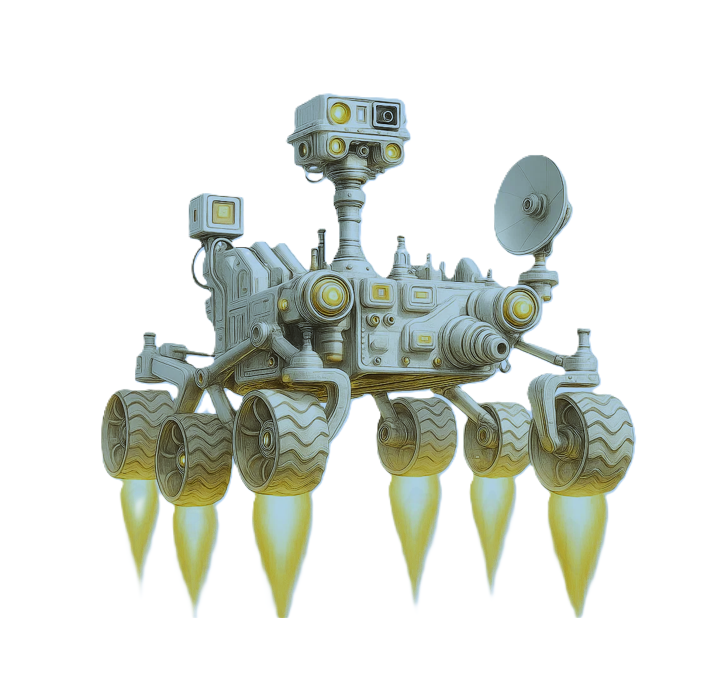
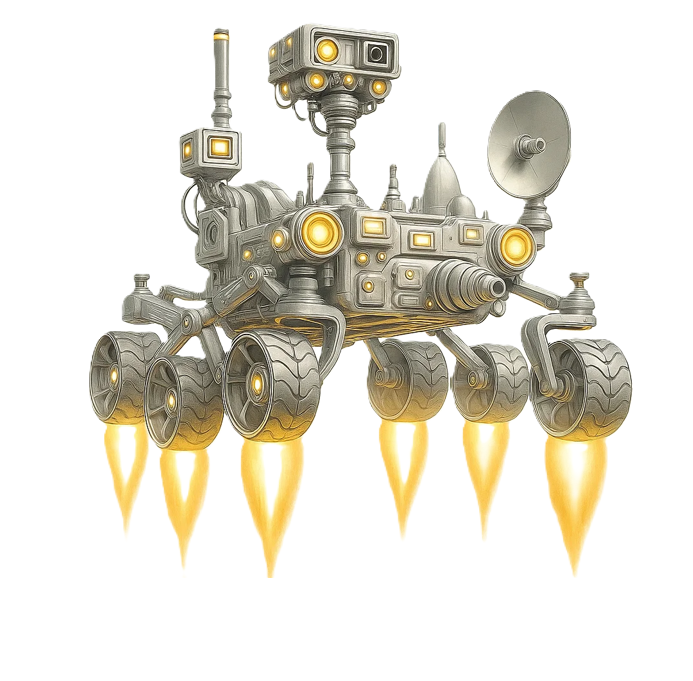
level 3 environment added

diff --git a/Explore_Mars_CV_Game/levels/level_data.py b/Explore_Mars_CV_Game/levels/level_data.py
@@ -65,7 +65,7 @@ level_configs = [
     {   
         # level 2 setup
         "background": os.path.join(assets_dir, "background2.png"),
-        "rover": os.path.join(assets_dir, "rover2.png"),
+        "rover": os.path.join(assets_dir, "rover1.png"),
         "logo": os.path.join(assets_dir, "Logo.png"),
 
         "stone_coords": [
@@ -75,7 +75,62 @@ level_configs = [
         ],
 
         "pithole_coords": [
-            (int(137 * screen_width / 800), int(410 * screen_height / 600), int(236 * screen_width / 800), int(441 * screen_height / 600)),
+            # (int(137 * screen_width / 800), int(410 * screen_height / 600), int(236 * screen_width / 800), int(441 * screen_height / 600)),
+            (int(318 * screen_width / 800), int(458 * screen_height / 600), int(376 * screen_width / 800), int(485 * screen_height / 600)),
+            # (int(500 * screen_width / 800), int(321 * screen_height / 600), int(618 * screen_width / 800), int(361 * screen_height / 600))
+        ],
+
+        "stone_facts": [
+            "Mars rocks are rich in iron, giving the planet its red color.",
+            "Some rocks on Mars were formed billions of years ago.",
+            "Mars may have had water long ago, according to some rocks.",
+            "Mars' volcanoes are giant, like Olympus Mons, the biggest volcano in the solar system.",
+            "Curiosity rover found signs of life in some Martian rocks.",
+            "Mars has rocks that look like Earth’s, formed by wind and water.",
+            "Mars has huge dust storms that can cover the entire planet.",
+            "Some rocks on Mars show signs of past underground water.",
+            "NASA’s Perseverance rover is collecting Martian rock samples.",
+            "Valles Marineris, a giant canyon on Mars, is the largest in the solar system."
+        ],
+
+        "pithole_facts": [
+            "Pitholes are holes in Mars' surface, made by old volcanic activity.",
+            "Some pitholes formed from gas bubbles deep underground.",
+            "Pitholes on Mars might have come from collapsing lava tubes.",
+            "Martian pitholes show where the planet's volcanoes once erupted.",
+            "Gas release from Mars' surface could have caused pitholes.",
+            "Pitholes are formed by the low gravity and no atmosphere on Mars.",
+            "Some pitholes on Mars may have been caused by meteorite impacts.",
+            "Pitholes give scientists clues about Mars’ past weather and atmosphere.",
+            "Many pitholes are near old volcanoes, showing Mars’ volcanic history.",
+            "Pitholes may help us understand how Mars changed over time."
+        ],
+
+        "sounds": {
+            "bgm": os.path.join(assets_dir, "bgm.mp3"),
+            "success": os.path.join(assets_dir, "success.mp3"),
+            "miss": os.path.join(assets_dir, "miss.mp3")
+        }
+    },
+    {   
+        # level 3 setup
+        "background": os.path.join(assets_dir, "background3.png"),
+        "rover": os.path.join(assets_dir, "rover2.png"),
+        "logo": os.path.join(assets_dir, "Logo.png"),
+
+        "stone_coords": [
+            (int(425 * screen_width / 800), int(333 * screen_height / 600), int(486 * screen_width / 800), int(394 * screen_height / 600)),
+            (int(667 * screen_width / 800), int(264 * screen_height / 600), int(713 * screen_width / 800), int(325 * screen_height / 600)),
+            (int(622 * screen_width / 800), int(466 * screen_height / 600), int(704 * screen_width / 800), int(519 * screen_height / 600)),
+            (int(590 * screen_width / 800), int(214 * screen_height / 600), int(629 * screen_width / 800), int(260 * screen_height / 600)),
+            (int(160 * screen_width / 800), int(260 * screen_height / 600), int(298 * screen_width / 800), int(315 * screen_height / 600)),
+            (int(143 * screen_width / 800), int(439 * screen_height / 600), int(185 * screen_width / 800), int(522 * screen_height / 600)),
+            (int(88 * screen_width / 800), int(140 * screen_height / 600), int(129 * screen_width / 800), int(196 * screen_height / 600)),
+            (int(132 * screen_width / 800), int(324 * screen_height / 600), int(159 * screen_width / 800), int(377 * screen_height / 600))
+        ],
+
+        "pithole_coords": [
+            # (int(137 * screen_width / 800), int(410 * screen_height / 600), int(236 * screen_width / 800), int(441 * screen_height / 600)),
             # (int(318 * screen_width / 800), int(458 * screen_height / 600), int(376 * screen_width / 800), int(485 * screen_height / 600)),
             # (int(500 * screen_width / 800), int(321 * screen_height / 600), int(618 * screen_width / 800), int(361 * screen_height / 600))
         ],
